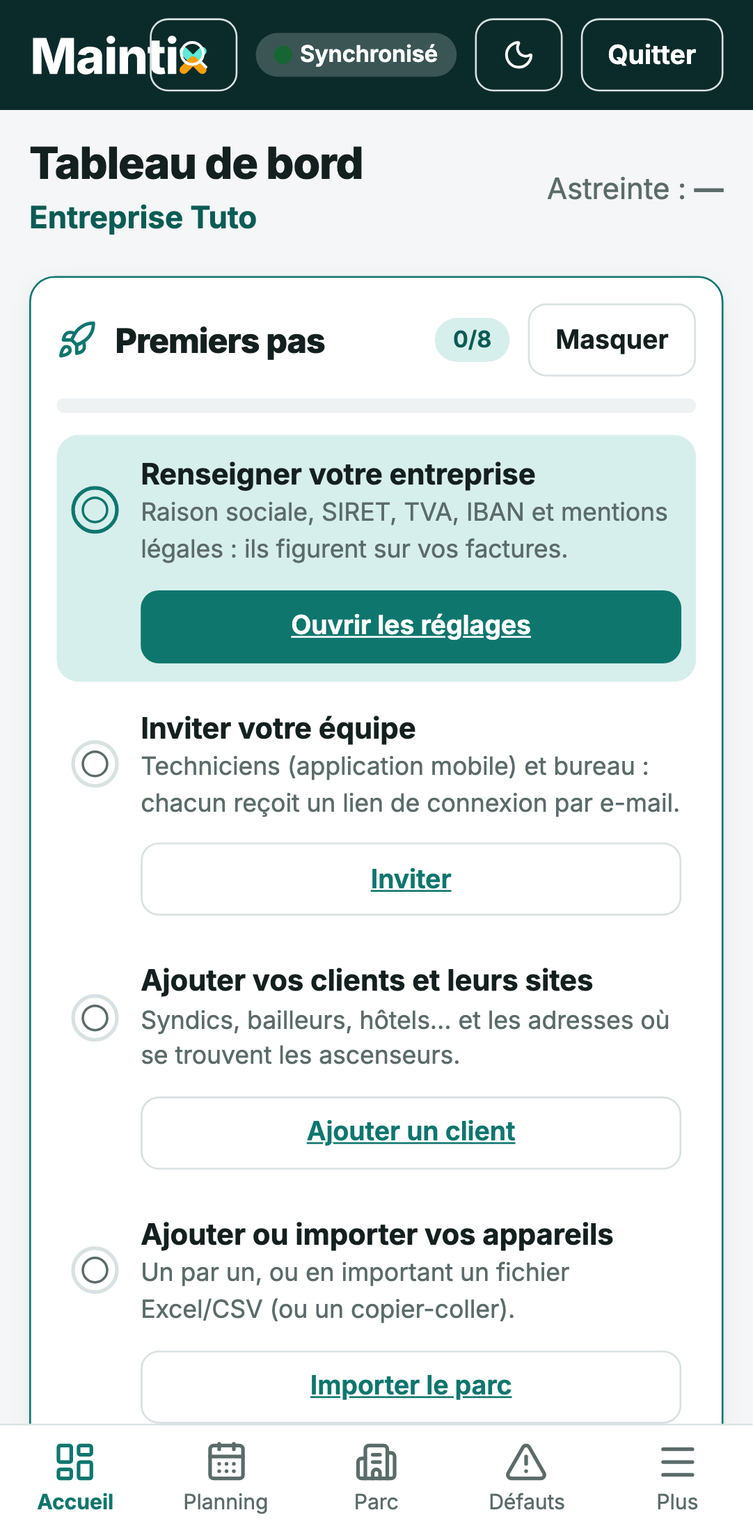
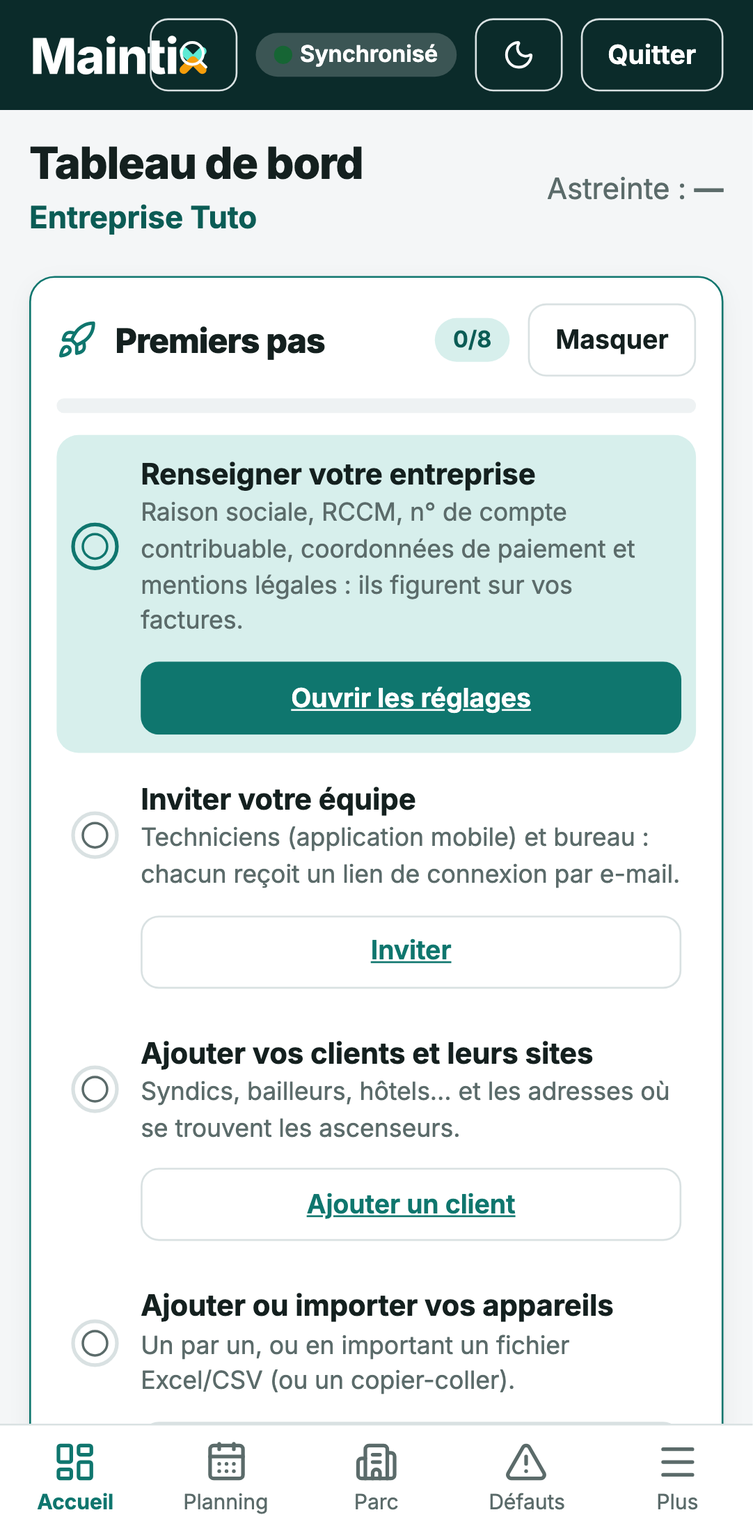
Adaptation Côte d'Ivoire (RCCM, n° CC, régime, coordonnées de paiement, TVA 18 %, écritures SYSCOHADA, démo à Abidjan) ; avantages des offres sur l'écran de paiement

diff --git a/src/components/PayPanel.tsx b/src/components/PayPanel.tsx
@@ -1,4 +1,5 @@
 import { useEffect, useState } from 'react'
+import { Check } from 'lucide-react'
 import { api, ApiError, type BillingOverview } from '../api'
 import { feedback } from '../feedback'
 import { fcfa, fmtDate } from '../util'
@@ -35,9 +36,23 @@ export function PayPanel({ compact = false }: { compact?: boolean }) {
           try { const r = await api.checkout({ plan, months, method }); window.location.href = r.redirectUrl }
           catch (x) { setBusy(false); feedback.toast(x instanceof ApiError && x.code === 'not_payable' ? 'Ce paiement ne peut pas lever la suspension : contactez Maintix.' : 'Le paiement n’a pas pu démarrer. Réessayez dans un instant.', 'error') }
         }}>
-          <label className="field">Offre
-            <select value={plan} onChange={(e) => setPlan(e.target.value)} required>{o.plans.map((p) => <option key={p.code} value={p.code}>{p.name} — {fcfa(p.priceMonthly)} / mois</option>)}</select>
-          </label>
+          <fieldset className="stack" style={{ border: 0, padding: 0, margin: 0 }}>
+            <legend className="small muted">Offre</legend>
+            <div className="plan-cards" role="radiogroup" aria-label="Offre">
+              {o.plans.map((p) => (
+                <button key={p.code} type="button" role="radio" aria-checked={plan === p.code} className={`plan-card ${plan === p.code ? 'on' : ''}`} onClick={() => setPlan(p.code)}>
+                  <span className="row between"><strong>{p.name}</strong>{o.current.plan === p.code && <Badge tone="brand">Offre actuelle</Badge>}</span>
+                  <span className="plan-price">{fcfa(p.priceMonthly)} <small>/ mois</small></span>
+                  <ul className="plan-perks">
+                    <li><Check size={15} aria-hidden="true" /> {p.maxTechs === null ? 'Techniciens illimités' : `Jusqu’à ${p.maxTechs} techniciens`}</li>
+                    <li><Check size={15} aria-hidden="true" /> {p.maxElevators === null ? 'Appareils illimités' : `Jusqu’à ${p.maxElevators} appareils`}</li>
+                    <li><Check size={15} aria-hidden="true" /> Visites sur mobile, rapports scellés, planning, factures</li>
+                    <li><Check size={15} aria-hidden="true" /> {p.overageMode === 'block' ? 'Plafonds fermes : changer d’offre pour en ajouter' : p.extraTechPrice || p.extraElevatorPrice ? `Au-delà : ${[p.extraTechPrice ? `${fcfa(p.extraTechPrice)} / technicien` : '', p.extraElevatorPrice ? `${fcfa(p.extraElevatorPrice)} / appareil` : ''].filter(Boolean).join(' · ')} par mois` : 'Ajouts possibles au-delà des plafonds'}</li>
+                  </ul>
+                </button>
+              ))}
+            </div>
+          </fieldset>
           <fieldset className="stack" style={{ border: 0, padding: 0, margin: 0 }}>
             <legend className="small muted">Durée</legend>
             <div className="seg" role="radiogroup" aria-label="Durée du paiement">
@@ -47,12 +62,17 @@ export function PayPanel({ compact = false }: { compact?: boolean }) {
           <label className="field">Moyen de paiement
             <select value={method} onChange={(e) => setMethod(e.target.value)}>{o.methods.map((m) => <option key={m.code} value={m.code}>{m.label}</option>)}</select>
           </label>
-          <div className="row between wrap"><span className="muted">Total à payer</span><strong style={{ fontSize: '1.3rem' }}>{fcfa(amount)}</strong></div>
+          {chosen && (
+            <div className="card stack" style={{ background: 'var(--surface-2)' }}>
+              <div className="row between wrap"><span className="muted">{chosen.name} · {months} mois × {fcfa(chosen.priceMonthly)}</span><strong style={{ fontSize: '1.3rem' }}>{fcfa(amount)}</strong></div>
+              <p className="small muted">Inclus : {chosen.maxTechs === null ? 'techniciens illimités' : `${chosen.maxTechs} techniciens`} et {chosen.maxElevators === null ? 'appareils illimités' : `${chosen.maxElevators} appareils`}.</p>
+            </div>
+          )}
           <button className="btn primary block" disabled={busy || !chosen}>{busy ? 'Redirection vers Jèko…' : `Payer ${fcfa(amount)} avec Jèko`}</button>
           <p className="small muted">Vous serez redirigé vers la page de paiement sécurisée de Jèko. L’accès est rétabli dès la confirmation du paiement.</p>
         </form>
       )}
-      {!compact && o.current.endsOn && <p className="small muted">Abonnement valable jusqu’au {fmtDate(o.current.endsOn)}.</p>}
+      {!compact && o.current.endsOn && <p className="small muted">Abonnement valable jusqu’au {fmtDate(o.current.endsOn)}</p>}
       {!compact && o.payments.length > 0 && (
         <div className="card stack">
           <h3>Vos paiements</h3>

diff --git a/src/invoicing.ts b/src/invoicing.ts
@@ -3,6 +3,7 @@ import { addDays, addMonths, today, uid } from './util'
 
 export { lineTotal, totals } from '../shared/money'
 import { totals } from '../shared/money'
+import { DEFAULT_VAT_RATE } from '../shared/orgIds'
 
 export const STATUS_LABEL: Record<Invoice['status'], string> = { brouillon: 'Brouillon', emise: 'Émise', payee: 'Payée', annulee: 'Annulée' }
 
@@ -29,10 +30,10 @@ export function issueLocal(inv: Invoice, all: Invoice[], settings: Pick<OrgSetti
 }
 
 /* ---------- création ---------- */
-export function draftFromQuote(q: Quote, vatRate = 20, on = today()): Invoice {
+export function draftFromQuote(q: Quote, vatRate = DEFAULT_VAT_RATE, on = today()): Invoice {
   return { id: uid('f'), clientId: q.clientId, kind: 'devis', quoteId: q.id, lines: q.lines.map((l) => ({ ...l })), vatRate, status: 'brouillon', createdAt: on }
 }
-export function draftFromContract(c: Contract, periodStart: string, months: number, appareils: number, vatRate = 20, on = today()): Invoice {
+export function draftFromContract(c: Contract, periodStart: string, months: number, appareils: number, vatRate = DEFAULT_VAT_RATE, on = today()): Invoice {
   const periodEnd = addDays(addMonths(periodStart, months), -1)
   return {
     id: uid('f'), clientId: c.clientId, kind: 'contrat', contractId: c.id, periodStart, periodEnd,
@@ -73,8 +74,8 @@ export function salesJournalCsv(invoices: Invoice[], clients: Client[]): string 
 const FEC_COLS = ['JournalCode', 'JournalLib', 'EcritureNum', 'EcritureDate', 'CompteNum', 'CompteLib', 'CompAuxNum', 'CompAuxLib', 'PieceRef', 'PieceDate', 'EcritureLib', 'Debit', 'Credit', 'EcritureLet', 'DateLet', 'ValidDate', 'Montantdevise', 'Idevise']
 const letter = (n: number) => { let s = ''; do { s = String.fromCharCode(65 + (n % 26)) + s; n = Math.floor(n / 26) - 1 } while (n >= 0); return s }
 
-/** Fichier des Écritures Comptables (format FEC, séparateur tabulation) : journal de ventes VE et journal de banque BQ.
- *  Comptes par défaut : 411 clients, 706 prestations, 44571 TVA collectée, 512 banque. À valider avec l'expert-comptable. */
+/** Écritures comptables (fichier à 18 colonnes, séparateur tabulation) : journal de ventes VE et journal de banque BQ.
+ *  Comptes SYSCOHADA par défaut : 411 clients, 706 services vendus, 4431 TVA facturée sur ventes, 521 banque. À valider avec l'expert-comptable. */
 export function fec(invoices: Invoice[], clients: Client[], year: number): string {
   const lines: string[][] = []
   let num = 0
@@ -89,13 +90,13 @@ export function fec(invoices: Invoice[], clients: Client[], year: number): strin
     const paid = i.status === 'payee' && i.paidAt?.startsWith(String(year))
     const lt = paid ? letter(let_++) : ''
     num += 1
-    row('VE', 'Journal des ventes', num, i.issuedAt!, '411000', 'Clients', aux, i.number!, i.issuedAt!, `Facture ${i.number} ${cl?.name ?? ''}`, t.ttc, 0, lt, paid ? i.paidAt! : '')
-    row('VE', 'Journal des ventes', num, i.issuedAt!, '706000', 'Prestations de services', null, i.number!, i.issuedAt!, `Facture ${i.number} ${cl?.name ?? ''}`, 0, t.ht)
-    if (t.vat) row('VE', 'Journal des ventes', num, i.issuedAt!, '445710', 'TVA collectée', null, i.number!, i.issuedAt!, `Facture ${i.number} ${cl?.name ?? ''}`, 0, t.vat)
+    row('VE', 'Journal des ventes', num, i.issuedAt!, '411100', 'Clients', aux, i.number!, i.issuedAt!, `Facture ${i.number} ${cl?.name ?? ''}`, t.ttc, 0, lt, paid ? i.paidAt! : '')
+    row('VE', 'Journal des ventes', num, i.issuedAt!, '706000', 'Services vendus', null, i.number!, i.issuedAt!, `Facture ${i.number} ${cl?.name ?? ''}`, 0, t.ht)
+    if (t.vat) row('VE', 'Journal des ventes', num, i.issuedAt!, '443100', 'TVA facturée sur ventes', null, i.number!, i.issuedAt!, `Facture ${i.number} ${cl?.name ?? ''}`, 0, t.vat)
     if (paid) {
       num += 1
-      row('BQ', 'Journal de banque', num, i.paidAt!, '512000', 'Banque', null, i.number!, i.paidAt!, `Règlement ${i.number} ${cl?.name ?? ''}`, t.ttc, 0)
-      row('BQ', 'Journal de banque', num, i.paidAt!, '411000', 'Clients', aux, i.number!, i.paidAt!, `Règlement ${i.number} ${cl?.name ?? ''}`, 0, t.ttc, lt, i.paidAt!)
+      row('BQ', 'Journal de banque', num, i.paidAt!, '521000', 'Banque', null, i.number!, i.paidAt!, `Règlement ${i.number} ${cl?.name ?? ''}`, t.ttc, 0)
+      row('BQ', 'Journal de banque', num, i.paidAt!, '411100', 'Clients', aux, i.number!, i.paidAt!, `Règlement ${i.number} ${cl?.name ?? ''}`, 0, t.ttc, lt, i.paidAt!)
     }
   }
   return [FEC_COLS, ...lines].map((r) => r.join('\t')).join('\r\n') + '\r\n'

diff --git a/src/pages/office/Settings.tsx b/src/pages/office/Settings.tsx
@@ -5,6 +5,7 @@ import { api, ApiError, type Member } from '../../api'
 import { actions, certStatus, runtime, useData } from '../../store'
 import type { OrgSettings } from '../../types'
 import { guardAdd, limitDialog } from '../../limits'
+import { DEFAULT_VAT_RATE, orgPayment, orgRccm, orgTaxId } from '../../../shared/orgIds'
 import { clearOrgData } from '../../session'
 import { PayPanel } from '../../components/PayPanel'
 import { PlanCard } from '../../components/PlanCard'
@@ -52,25 +53,30 @@ function Users() {
   )
 }
 
+/** Reprend les anciens champs (SIRET, TVA, IBAN) dans les nouveaux, pour les données déjà saisies. */
+const withCurrentFields = (o: OrgSettings): OrgSettings => ({ ...o, rccm: orgRccm(o), taxId: orgTaxId(o), taxRegime: o.taxRegime ?? '', bankDetails: orgPayment(o) })
+const withoutLegacyFields = (o: OrgSettings): OrgSettings => { const { siret: _s, vatNumber: _v, iban: _i, ...rest } = o; return rest }
+
 function OrgForm() {
   const s = useData()
-  const base: OrgSettings = { id: 'org', legalName: '', address: '', siret: '', vatNumber: '', iban: '', email: '', phone: '', legalFooter: 'En cas de retard de paiement : pénalités de retard exigibles dès le lendemain de l’échéance et indemnité forfaitaire de recouvrement.', paymentDays: 30, vatRate: 20 }
+  const base: OrgSettings = { id: 'org', legalName: '', address: '', rccm: '', taxId: '', taxRegime: '', bankDetails: '', email: '', phone: '', legalFooter: 'Tout retard de paiement entraîne l’application de pénalités de retard à compter du lendemain de la date d’échéance.', paymentDays: 30, vatRate: DEFAULT_VAT_RATE }
   const [f, setF] = useState<OrgSettings>(s.settings[0] ?? base)
   const [saved, setSaved] = useState(false)
   const [dirty, setDirty] = useState(false)
   // les réglages arrivent de la synchronisation (ou d'un changement d'entreprise) : on les reprend tant que l'utilisateur n'a rien modifié
-  useEffect(() => { if (!dirty && s.settings[0]) setF(s.settings[0]) }, [s.settings, dirty])
+  useEffect(() => { if (!dirty && s.settings[0]) setF(withCurrentFields(s.settings[0])) }, [s.settings, dirty])
   const F = (k: keyof OrgSettings, label: string, props: Record<string, unknown> = {}) => (
     <label className="field">{label}<input value={String(f[k] ?? '')} onChange={(e) => { setSaved(false); setDirty(true); setF({ ...f, [k]: props.type === 'number' ? +e.target.value : e.target.value }) }} {...props} /></label>
   )
   return (
-    <form className="card stack" onSubmit={(e) => { e.preventDefault(); actions.upsertSettings(f); setSaved(true); setDirty(false); feedback.toast('Informations de l’entreprise enregistrées.') }}>
+    <form className="card stack" onSubmit={(e) => { e.preventDefault(); actions.upsertSettings(withoutLegacyFields(f)); setSaved(true); setDirty(false); feedback.toast('Informations de l’entreprise enregistrées.') }}>
       <h2>Entreprise et facturation</h2>
       <p className="small muted">Ces informations figurent sur vos factures. Vérifiez les mentions légales avec votre expert-comptable.</p>
       <div className="grid2">
-        {F('legalName', 'Raison sociale', { required: true })}{F('siret', 'SIRET')}{F('vatNumber', 'N° de TVA intracommunautaire')}{F('iban', 'IBAN')}
+        {F('legalName', 'Raison sociale', { required: true })}{F('rccm', 'RCCM (Registre du Commerce)', { placeholder: 'CI-ABJ-2020-B-12345' })}{F('taxId', 'N° de compte contribuable (CC)', { placeholder: '1234567 A' })}{F('taxRegime', 'Régime d’imposition', { placeholder: 'Réel normal, synthétique…' })}
         {F('email', 'E-mail', { type: 'email' })}{F('phone', 'Téléphone')}{F('paymentDays', 'Délai de paiement (jours)', { type: 'number', min: 0 })}{F('vatRate', 'TVA par défaut (%)', { type: 'number', step: '0.1' })}
       </div>
+      {F('bankDetails', 'Coordonnées de paiement (RIB, Wave, Orange Money…)', { placeholder: 'RIB CI000 00000 00000000000 00 · Wave 07 00 00 00 00' })}
       {F('address', 'Adresse')}
       <label className="field">Mentions de pied de facture<textarea value={f.legalFooter} onChange={(e) => { setSaved(false); setDirty(true); setF({ ...f, legalFooter: e.target.value }) }} /></label>
       <div className="row"><button className="btn primary">Enregistrer</button>{saved && <span role="status" className="small">Enregistré.</span>}</div>

diff --git a/src/seed.ts b/src/seed.ts
@@ -8,14 +8,14 @@ export function seed(): State {
     session: { role: null, techId: null, clientId: null },
     clients: [
       { id: 'c1', name: 'Syndic Résidence Les Lilas', kind: 'syndic', contact: 'Mme Bernard', email: 'syndic.lilas@example.com', phone: '01 23 45 67 89' },
-      { id: 'c2', name: 'Habitat Nord Bailleur', kind: 'bailleur', contact: 'M. Diallo', email: 'patrimoine@habitat-nord.example', phone: '03 20 00 00 00' },
+      { id: 'c2', name: 'Habitat Abidjan Bailleur', kind: 'bailleur', contact: 'M. Diallo', email: 'patrimoine@habitat-abidjan.example', phone: '+225 27 00 00 00 01' },
       { id: 'c3', name: 'Hôtel du Parc', kind: 'erp', contact: 'M. Lefèvre', email: 'direction@hotel-parc.example', phone: '04 70 00 00 00' },
     ],
     sites: [
-      { id: 's1', clientId: 'c1', name: 'Les Lilas – Bât. A', address: '12 rue des Lilas, 59000 Lille', access: 'Digicode 4521 · clé machinerie chez la gardienne (loge RDC)', risks: 'Machinerie en toiture : accès par échelle. Gaine peu profonde (cuvette 1,0 m).' },
-      { id: 's2', clientId: 'c1', name: 'Les Lilas – Bât. B', address: '14 rue des Lilas, 59000 Lille', access: 'Digicode 4521 · local technique au sous-sol, clé au bâtiment A', risks: 'Sous-sol sans réseau mobile.' },
-      { id: 's3', clientId: 'c2', name: 'Tour Habitat – 18 étages', address: '5 avenue de la Paix, 59100 Roubaix', access: 'Gardien sur place 7h–19h. Badge technicien à retirer.', risks: 'Travail en hauteur en machinerie haute. Deux ascenseurs, ne jamais les arrêter ensemble.' },
-      { id: 's4', clientId: 'c3', name: 'Hôtel du Parc', address: '2 place du Parc, 03200 Vichy', access: 'Accueil hôtel, demander M. Lefèvre.', risks: 'Clients dans les étages : intervention en horaires creux.' },
+      { id: 's1', clientId: 'c1', name: 'Les Lilas – Bât. A', address: 'Rue des Jardins, Cocody, Abidjan', access: 'Digicode 4521 · clé machinerie chez la gardienne (loge RDC)', risks: 'Machinerie en toiture : accès par échelle. Gaine peu profonde (cuvette 1,0 m).' },
+      { id: 's2', clientId: 'c1', name: 'Les Lilas – Bât. B', address: 'Rue des Jardins (bât. B), Cocody, Abidjan', access: 'Digicode 4521 · local technique au sous-sol, clé au bâtiment A', risks: 'Sous-sol sans réseau mobile.' },
+      { id: 's3', clientId: 'c2', name: 'Tour Habitat – 18 étages', address: 'Boulevard de la Paix, Plateau, Abidjan', access: 'Gardien sur place 7h–19h. Badge technicien à retirer.', risks: 'Travail en hauteur en machinerie haute. Deux ascenseurs, ne jamais les arrêter ensemble.' },
+      { id: 's4', clientId: 'c3', name: 'Hôtel du Parc', address: 'Place du Parc, Marcory, Abidjan', access: 'Accueil hôtel, demander M. Lefèvre.', risks: 'Clients dans les étages : intervention en horaires creux.' },
     ],
     elevators: [
       { id: 'e1', siteId: 's1', label: 'Ascenseur A1', brand: 'Schindler', model: '3300', serial: 'SCH-3300-4412', year: 2004, loadKg: 630, stops: 7, machineRoom: 'haut', status: 'ok', lastVisit: addDays(t, -28) },
@@ -53,7 +53,7 @@ export function seed(): State {
     ],
     quotes: [],
     invoices: [],
-    settings: [{ id: 'org', legalName: 'Ascenseurs Démo SAS', address: '10 rue de l’Industrie, 59000 Lille', siret: '123 456 789 00012', vatNumber: 'FR12 123456789', iban: 'FR76 3000 6000 0112 3456 7890 189', email: 'contact@demo.example', phone: '03 20 00 00 00', legalFooter: 'En cas de retard de paiement : pénalités au taux de 3 fois le taux d’intérêt légal et indemnité forfaitaire de recouvrement. Pas d’escompte pour paiement anticipé.', paymentDays: 30, vatRate: 20 }],
+    settings: [{ id: 'org', legalName: 'Ascenseurs Démo SAS', address: 'Zone industrielle de Yopougon, Abidjan', rccm: 'CI-ABJ-2019-B-12345', taxId: '1234567 A', taxRegime: 'Réel normal', bankDetails: 'RIB CI000 01234 012345678901 23 · Wave 07 00 00 00 00', email: 'contact@demo.example', phone: '+225 27 00 00 00 00', legalFooter: 'Tout retard de paiement entraîne l’application de pénalités de retard à compter du lendemain de la date d’échéance.', paymentDays: 30, vatRate: 18 }],
   }
 }
 

diff --git a/server/src/pdf.ts b/server/src/pdf.ts
@@ -1,3 +1,4 @@
+import { DEFAULT_VAT_RATE, orgIdentityLines, orgPayment } from '../../shared/orgIds'
 import PDFDocument from 'pdfkit'
 import logo from '../../brand/logo-data.json'
 import { MEASURES, ZONES } from '../../shared/checklist'
@@ -205,7 +206,7 @@ const dFr = (d?: string) => (d ? d.split('-').reverse().join('/') : '—')
 /** Facture PDF (A4). Montants recalculés par le serveur à partir des lignes. */
 export function buildInvoicePdf(d: InvoiceData): Promise<Buffer> {
   const { invoice: inv, client, settings: org = {} } = d
-  const t = totals({ lines: inv.lines ?? [], vatRate: Number(inv.vatRate ?? 20) })
+  const t = totals({ lines: inv.lines ?? [], vatRate: Number(inv.vatRate ?? DEFAULT_VAT_RATE) })
   const doc = new PDFDocument({ size: 'A4', margin: 48, bufferPages: true, compress: d.compress ?? true, info: { Title: `Facture ${inv.number ?? 'brouillon'}`, Author: String(org.legalName ?? 'Maintix') } })
   const chunks: Buffer[] = []
   doc.on('data', (b: Buffer) => chunks.push(b))
@@ -221,7 +222,7 @@ export function buildInvoicePdf(d: InvoiceData): Promise<Buffer> {
   // émetteur / destinataire
   let y = 44 + lh + 28
   doc.font('Helvetica-Bold').fontSize(10).fillColor(C.ink).text(String(org.legalName ?? ''), L, y, { width: W / 2 - 10 })
-  doc.font('Helvetica').fontSize(9).fillColor(C.muted).text([org.address, org.siret ? `SIRET ${org.siret}` : '', org.vatNumber ? `TVA ${org.vatNumber}` : '', org.email, org.phone].filter(Boolean).join('\n'), L, doc.y + 2, { width: W / 2 - 10 })
+  doc.font('Helvetica').fontSize(9).fillColor(C.muted).text([org.address, ...orgIdentityLines(org), org.email, org.phone].filter(Boolean).join('\n'), L, doc.y + 2, { width: W / 2 - 10 })
   const leftEnd = doc.y
   doc.rect(L + W / 2 + 10, y - 6, W / 2 - 10, 78).fill(C.bg)
   doc.font('Helvetica-Bold').fontSize(8).fillColor(C.muted).text('FACTURÉ À', L + W / 2 + 20, y, { width: W / 2 - 30 })
@@ -266,7 +267,7 @@ export function buildInvoicePdf(d: InvoiceData): Promise<Buffer> {
 
   y += 10
   doc.font('Helvetica').fontSize(9).fillColor(C.ink)
-  if (org.iban) { doc.font('Helvetica-Bold').text('Règlement par virement', L, y); doc.font('Helvetica').fillColor(C.muted).text(`IBAN ${org.iban}  ·  Référence : ${inv.number ?? ''}`, L, doc.y + 2, { width: W }); y = doc.y + 8 }
+  if (orgPayment(org)) { doc.font('Helvetica-Bold').text('Règlement', L, y); doc.font('Helvetica').fillColor(C.muted).text(`${orgPayment(org)}  ·  Référence : ${inv.number ?? ''}`, L, doc.y + 2, { width: W }); y = doc.y + 8 }
   if (inv.note) { doc.font('Helvetica').fontSize(9).fillColor(C.ink).text(String(inv.note), L, y, { width: W }); y = doc.y + 8 }
   if (org.legalFooter) doc.font('Helvetica').fontSize(7.5).fillColor(C.muted).text(String(org.legalFooter), L, Math.max(y + 6, doc.page.height - 120), { width: W })
 

diff --git a/src/pages/office/Invoices.tsx b/src/pages/office/Invoices.tsx
@@ -5,6 +5,7 @@ import { Badge } from '../../components/ui'
 import { Icon } from '../../components/Icon'
 import { feedback } from '../../feedback'
 import { contractStatus } from '../../contracts'
+import { DEFAULT_VAT_RATE } from '../../../shared/orgIds'
 import { draftFromContract, draftFromQuote, fec, salesJournalCsv, STATUS_LABEL, totals, unbilledPeriods } from '../../invoicing'
 import { issueInvoice } from '../../invoice-actions'
 import { fcfa, fmtDate, today, uid } from '../../util'
@@ -25,7 +26,7 @@ export default function Invoices() {
   const nav = useNavigate()
   const [filter, setFilter] = useState<Filter>('toutes')
   const [year, setYear] = useState(new Date().getFullYear())
-  const vat = s.settings[0]?.vatRate ?? 20
+  const vat = s.settings[0]?.vatRate ?? DEFAULT_VAT_RATE
   const on = today()
 
   const list = [...s.invoices]
@@ -92,9 +93,9 @@ export default function Invoices() {
         <div className="row wrap">
           <label className="row small">Exercice <input type="number" style={{ width: 100 }} value={year} onChange={(e) => setYear(+e.target.value || year)} /></label>
           <button className="btn sm" onClick={() => download(`journal-ventes-${year}.csv`, salesJournalCsv(s.invoices.filter((i) => i.issuedAt?.startsWith(String(year))), s.clients), 'text/csv;charset=utf-8')}><Icon n="import" /> Journal des ventes (CSV)</button>
-          <button className="btn sm" onClick={() => download(`FEC-${year}.txt`, fec(s.invoices, s.clients, year), 'text/plain;charset=utf-8')}><Icon n="import" /> FEC {year}</button>
+          <button className="btn sm" onClick={() => download(`ecritures-comptables-${year}.txt`, fec(s.invoices, s.clients, year), 'text/plain;charset=utf-8')}><Icon n="import" /> Écritures comptables {year}</button>
         </div>
-        <p className="small muted">Le FEC reprend les comptes par défaut (411 clients, 706 prestations, 44571 TVA collectée, 512 banque) : à faire valider par votre expert-comptable avant tout usage fiscal.{!runtime.server && ' Mode démonstration : numérotation locale à cet appareil.'}</p>
+        <p className="small muted">Les écritures comptables reprennent les comptes SYSCOHADA par défaut (411 clients, 706 services vendus, 4431 TVA facturée sur ventes, 521 banque) : à faire valider par votre expert-comptable avant tout usage fiscal.{!runtime.server && ' Mode démonstration : numérotation locale à cet appareil.'}</p>
       </section>
     </div>
   )

diff --git a/e2e-server/sync.spec.ts b/e2e-server/sync.spec.ts
@@ -380,6 +380,23 @@ test.describe.serial('mode serveur', () => {
     const axe2 = await new AxeBuilder({ page }).withTags(['wcag2a', 'wcag2aa']).analyze()
     expect(axe2.violations.map((v) => `${v.id}: ${v.nodes.map((n) => n.target.join(' ')).join(' | ')}`)).toEqual([])
 
+    // l'administrateur voit, pour chaque offre, ses avantages (techniciens, appareils…) avant de payer
+    const payer = await freshLogin(browser, 'dg@cliente.test')
+    await payer.page.goto('/#/office/settings/abonnement')
+    const cards = payer.page.getByRole('radiogroup', { name: 'Offre' })
+    await expect(cards.getByRole('radio', { name: /Essentiel/ })).toContainText('Jusqu’à 2 techniciens'.replace('2', '5'))
+    await expect(cards.getByRole('radio', { name: /Pro/ })).toContainText('Jusqu’à 15 techniciens')
+    await expect(cards.getByRole('radio', { name: /Pro/ })).toContainText('Jusqu’à 500 appareils')
+    await cards.getByRole('radio', { name: /Pro/ }).click()
+    await payer.page.getByRole('radio', { name: '3 mois' }).click()
+    await expect(payer.page.getByText('Pro · 3 mois × 90 000 FCFA')).toBeVisible()
+    await expect(payer.page.getByRole('button', { name: /Payer 270 000 FCFA avec Jèko/ })).toBeVisible()
+    await payer.page.waitForTimeout(400)
+    const axe3 = await new AxeBuilder({ page: payer.page }).withTags(['wcag2a', 'wcag2aa']).analyze()
+    expect(axe3.violations.map((v) => `${v.id}: ${v.nodes.map((n) => n.target.join(' ')).join(' | ')}`)).toEqual([])
+    if (process.env.SHOTS) await payer.page.screenshot({ path: 'docs/screenshots/49-choix-offre.png', fullPage: true })
+    await payer.ctx.close()
+
     // facturation de la plateforme : montants en FCFA
     await page.getByRole('tab', { name: 'Usage et facturation' }).click()
     await expect(page.getByText('35 000 FCFA').first()).toBeVisible()
@@ -467,7 +484,7 @@ test.describe.serial('mode serveur', () => {
     await page.getByRole('link', { name: 'Ouvrir les réglages' }).click()
     const form = page.locator('form', { hasText: 'Entreprise et facturation' })
     await form.getByLabel('Raison sociale').fill('Entreprise Tuto SAS')
-    await form.getByLabel('SIRET').fill('123 456 789 00012')
+    await form.getByLabel(/RCCM/).fill('CI-ABJ-2020-B-12345')
     await form.getByRole('button', { name: 'Enregistrer' }).click()
     await page.goto('/#/office')
     await expect(page.locator('.gs .badge')).toHaveText('1/8')

diff --git a/src/pages/office/InvoiceDetail.tsx b/src/pages/office/InvoiceDetail.tsx
@@ -1,3 +1,4 @@
+import { orgIdentityLines, orgPayment } from '../../../shared/orgIds'
 import { Link, useNavigate, useParams } from 'react-router-dom'
 import { api, ApiError } from '../../api'
 import { actions, byId, runtime, useData } from '../../store'
@@ -74,7 +75,7 @@ export default function InvoiceDetail() {
       <div className="no-print"><History collection="invoices" id={inv.id} /></div>
 
       <article className="paper">
-        <div className="paper-head"><div><strong style={{ fontSize: '1.1rem' }}>{org?.legalName ?? 'Votre entreprise'}</strong><div className="small" style={{ fontWeight: 400 }}>{org?.address}<br />{org?.siret && <>SIRET {org.siret} · </>}{org?.vatNumber && <>TVA {org.vatNumber}</>}</div></div><span style={{ fontSize: '1.3rem' }}>{inv.status === 'brouillon' ? 'PROFORMA' : 'FACTURE'}<br /><span style={{ fontSize: '.9rem', color: '#0f766e' }}>{inv.number ?? ''}</span></span></div>
+        <div className="paper-head"><div><strong style={{ fontSize: '1.1rem' }}>{org?.legalName ?? 'Votre entreprise'}</strong><div className="small" style={{ fontWeight: 400 }}>{org?.address}{orgIdentityLines(org).map((l) => <span key={l}><br />{l}</span>)}</div></div><span style={{ fontSize: '1.3rem' }}>{inv.status === 'brouillon' ? 'PROFORMA' : 'FACTURE'}<br /><span style={{ fontSize: '.9rem', color: '#0f766e' }}>{inv.number ?? ''}</span></span></div>
         <p><strong>Facturé à :</strong> {client?.name}{client?.contact ? ` · ${client.contact}` : ''}</p>
         <p className="small">{inv.issuedAt && <>Émise le {fmtDateLong(inv.issuedAt)} · </>}{inv.dueAt && <>Échéance le {fmtDateLong(inv.dueAt)}</>}{inv.periodStart && <> · Période du {fmtDateLong(inv.periodStart)} au {fmtDateLong(inv.periodEnd!)}</>}</p>
         <table style={{ marginTop: 10 }}>
@@ -88,7 +89,7 @@ export default function InvoiceDetail() {
         </table>
         {inv.status === 'payee' && <p style={{ color: '#166534', fontWeight: 700 }}>Acquittée le {fmtDateLong(inv.paidAt!)}</p>}
         {inv.note && <p>{inv.note}</p>}
-        {org?.iban && <p className="small">Règlement par virement — IBAN {org.iban} — référence {inv.number ?? ''}</p>}
+        {orgPayment(org) && <p className="small">Règlement : {orgPayment(org)} — référence {inv.number ?? ''}</p>}
         {org?.legalFooter && <p className="small" style={{ color: '#555' }}>{org.legalFooter}</p>}
       </article>
     </div>

diff --git a/src/pages/office/Quotes.tsx b/src/pages/office/Quotes.tsx
@@ -1,3 +1,4 @@
+import { DEFAULT_VAT_RATE } from '../../../shared/orgIds'
 import { useSearchParams } from 'react-router-dom'
 import { actions, byId, useData } from '../../store'
 import { Badge } from '../../components/ui'
@@ -7,11 +8,11 @@ import type { Quote } from '../../types'
 import { Icon } from '../../components/Icon'
 
 export const quoteTotal = (q: Quote) => q.lines.reduce((t, l) => t + l.qty * l.unit, 0)
-const TVA = 0.2
 
 export default function Quotes() {
   const s = useData()
   const [sp] = useSearchParams()
+  const vatRate = s.settings[0]?.vatRate ?? DEFAULT_VAT_RATE
   const openId = sp.get('open')
   const list = [...s.quotes].sort((a, b) => b.createdAt.localeCompare(a.createdAt))
   return (
@@ -28,7 +29,7 @@ export default function Quotes() {
           <details key={q.id} className="card" open={q.id === openId}>
             <summary className="row between wrap" style={{ cursor: 'pointer' }}>
               <strong>{c.name} · {e.label}</strong>
-              <span className="row"><Badge tone={q.status === 'accepte' ? 'ok' : q.status === 'envoye' ? 'brand' : undefined}>{q.status === 'accepte' ? 'Accepté' : q.status === 'envoye' ? 'Envoyé' : 'Brouillon'}</Badge><strong>{fcfa(ht * (1 + TVA))} TTC</strong></span>
+              <span className="row"><Badge tone={q.status === 'accepte' ? 'ok' : q.status === 'envoye' ? 'brand' : undefined}>{q.status === 'accepte' ? 'Accepté' : q.status === 'envoye' ? 'Envoyé' : 'Brouillon'}</Badge><strong>{fcfa(ht + Math.round((ht * vatRate) / 100))} TTC</strong></span>
             </summary>
             <div className="stack" style={{ marginTop: 12 }}>
               <p className="small muted">Créé le {fmtDateLong(q.createdAt)}</p>
@@ -44,7 +45,7 @@ export default function Quotes() {
                     </tr>
                   ))}
                 </tbody>
-                <tfoot><tr><td colSpan={3}>Total HT / TVA 20 %</td><td>{fcfa(ht)} / {fcfa(ht * TVA)}</td></tr></tfoot>
+                <tfoot><tr><td colSpan={3}>Total HT / TVA {vatRate} %</td><td>{fcfa(ht)} / {fcfa(Math.round((ht * vatRate) / 100))}</td></tr></tfoot>
               </table></div>
               <div className="row wrap">
                 {editable && <button className="btn sm" onClick={() => actions.updateQuote(q.id, { lines: [...q.lines, { label: 'Nouvelle ligne', qty: 1, unit: 0 }] })}>+ Ligne</button>}

diff --git a/server/src/app.ts b/server/src/app.ts
@@ -21,6 +21,7 @@ import { getPlan, loadPlans, planLimitBlock } from './plans'
 import type { Notifier } from './notify'
 import { Metrics, newRequestId, silentLogger, type Logger } from './observability'
 import { totals } from '../../shared/money'
+import { DEFAULT_VAT_RATE } from '../../shared/orgIds'
 import { emailParts, ROLE_LABEL, setEmailContact } from './emailTemplate'
 import { sealPayload } from '../../shared/canonical'
 
@@ -653,7 +654,7 @@ export function createApp({ db, config, mailer, notifier, logger = silentLogger,
       if (!cur) return { status: 404 as const }
       if (cur.status !== 'brouillon') return { status: 409 as const }
       const lines = (cur.lines as { qty: number; unit: number }[] | undefined) ?? []
-      if (!lines.length || totals({ lines, vatRate: Number(cur.vatRate ?? 20) }).ht <= 0) return { status: 422 as const }
+      if (!lines.length || totals({ lines, vatRate: Number(cur.vatRate ?? DEFAULT_VAT_RATE) }).ht <= 0) return { status: 422 as const }
       const settings = (await t.query<{ data: Doc }>(`select data from docs where org_id=$1 and collection='settings' and id='org'`, [who.orgId])).rows[0]?.data
       const today = new Date().toISOString().slice(0, 10)
       const year = Number(today.slice(0, 4))
@@ -691,7 +692,7 @@ export function createApp({ db, config, mailer, notifier, logger = silentLogger,
     const to = parsed.data.to?.length ? parsed.data.to : b.client.email ? [String(b.client.email)] : []
     if (!to.length) return c.json({ error: 'no_recipient' }, 400)
     const pdf = await buildInvoicePdf({ ...b, appUrl: config.appUrl })
-    const t = totals({ lines: (b.invoice.lines as { qty: number; unit: number }[]) ?? [], vatRate: Number(b.invoice.vatRate ?? 20) })
+    const t = totals({ lines: (b.invoice.lines as { qty: number; unit: number }[]) ?? [], vatRate: Number(b.invoice.vatRate ?? DEFAULT_VAT_RATE) })
     await mailer.send({
       to,
       subject: `Facture ${b.invoice.number} – ${String(b.settings?.legalName ?? 'Maintix')}`,

diff --git a/src/onboarding.ts b/src/onboarding.ts
@@ -1,6 +1,7 @@
 import { useSyncExternalStore } from 'react'
 import { api } from './api'
 import type { State } from './types'
+import { orgRccm, orgTaxId } from '../shared/orgIds'
 
 export type OnboardingFlags = Partial<Record<'welcomeSeen' | 'gettingStartedHidden' | 'qrDone' | 'installDone' | 'teamDone', boolean>>
 interface Snap { loaded: boolean; flags: OnboardingFlags }
@@ -31,7 +32,7 @@ export interface Step { key: string; title: string; why: string; to: string; act
 export function gettingStartedSteps(s: State, flags: OnboardingFlags): Step[] {
   const o = s.settings[0]
   return [
-    { key: 'company', title: 'Renseigner votre entreprise', why: 'Raison sociale, SIRET, TVA, IBAN et mentions légales : ils figurent sur vos factures.', to: '/office/settings/entreprise', action: 'Ouvrir les réglages', done: !!(o?.legalName?.trim() && o?.siret?.trim()) },
+    { key: 'company', title: 'Renseigner votre entreprise', why: 'Raison sociale, RCCM, n° de compte contribuable, coordonnées de paiement et mentions légales : ils figurent sur vos factures.', to: '/office/settings/entreprise', action: 'Ouvrir les réglages', done: !!(o?.legalName?.trim() && (orgRccm(o) || orgTaxId(o))) },
     { key: 'team', title: 'Inviter votre équipe', why: 'Techniciens (application mobile) et bureau : chacun reçoit un lien de connexion par e-mail.', to: '/office/settings/equipe', action: 'Inviter', done: s.techs.some((t) => t.role === 'tech') || !!flags.teamDone },
     { key: 'clients', title: 'Ajouter vos clients et leurs sites', why: 'Syndics, bailleurs, hôtels… et les adresses où se trouvent les ascenseurs.', to: '/office/clients', action: 'Ajouter un client', done: s.clients.length > 0 && s.sites.length > 0 },
     { key: 'parc', title: 'Ajouter ou importer vos appareils', why: 'Un par un, ou en important un fichier Excel/CSV (ou un copier-coller).', to: '/office/import', action: 'Importer le parc', done: s.elevators.length > 0 },

diff --git a/server/test/invoices.test.ts b/server/test/invoices.test.ts
@@ -92,10 +92,12 @@ describe('facture figée', () => {
 describe('PDF et envoi', () => {
   it('génère le PDF avec numéro, montants TTC et mentions légales', async () => {
     const f = { ...draft('f1'), status: 'emise', number: 'FAC-2026-0007', issuedAt: '2026-03-01', dueAt: '2026-04-15' }
-    const pdf = await buildInvoicePdf({ invoice: f, client: { name: 'Syndic Les Lilas', email: 'a@b.test' }, settings: { legalName: 'Ascenseurs Dupont SAS', iban: 'FR76 0000', legalFooter: 'Pénalités de retard : 3 fois le taux légal.', siret: '123' }, appUrl: 'https://x', compress: false })
+    const pdf = await buildInvoicePdf({ invoice: f, client: { name: 'Syndic Les Lilas', email: 'a@b.test' }, settings: { legalName: 'Ascenseurs Dupont SAS', bankDetails: 'RIB CI000 0000 · Wave 07 00 00 00 00', rccm: 'CI-ABJ-2020-B-12345', taxId: '1234567 A', taxRegime: 'Réel normal', legalFooter: 'Pénalités de retard : 3 fois le taux légal.' }, appUrl: 'https://x', compress: false })
     expect(pdf.subarray(0, 5).toString()).toBe('%PDF-')
     const text = pdfText(pdf)
-    for (const needle of ['FACTURE', 'FAC-2026-0007', 'Syndic Les Lilas', 'Contrat janvier', '216 000 FCFA', 'IBAN FR76', 'Pénalités de retard']) expect(text).toContain(needle)
+    expect(text).not.toContain('IBAN')
+    expect(text).not.toContain('SIRET')
+    for (const needle of ['FACTURE', 'FAC-2026-0007', 'Syndic Les Lilas', 'Contrat janvier', '216 000 FCFA', 'Règlement', 'RIB CI000 0000', 'Wave 07', 'RCCM CI-ABJ-2020-B-12345', 'N° CC 1234567 A', 'Réel normal', 'Pénalités de retard']) expect(text).toContain(needle)
   })
   it('sert le PDF au bureau et au client concerné, jamais un brouillon, jamais à un autre client', async () => {
     await push(admin, [{ collection: 'invoices', id: 'f1', data: draft('f1') }, { collection: 'invoices', id: 'f2', data: draft('f2') }])
